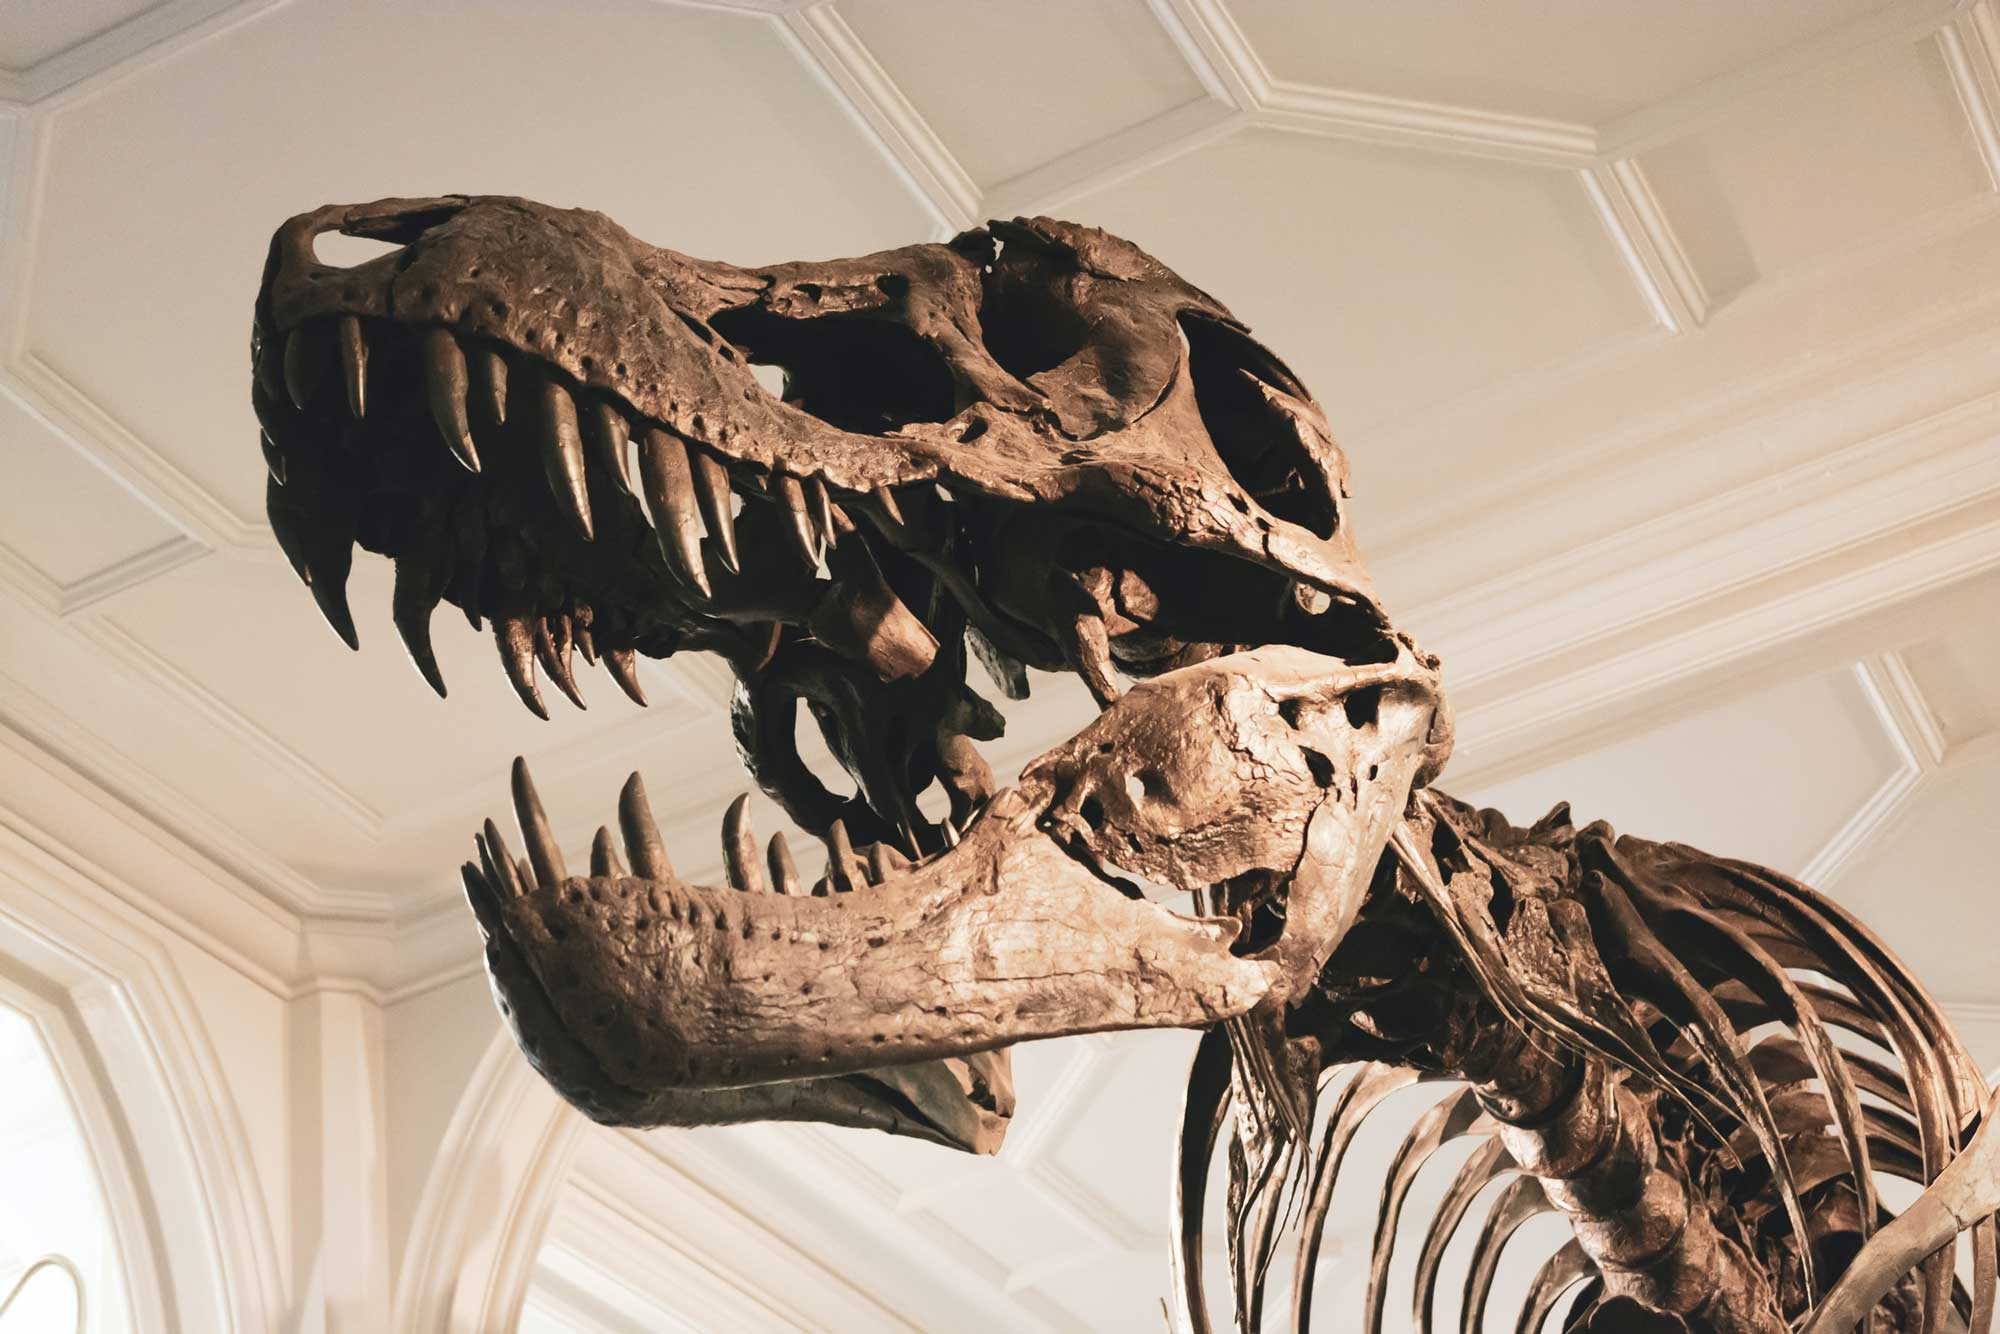
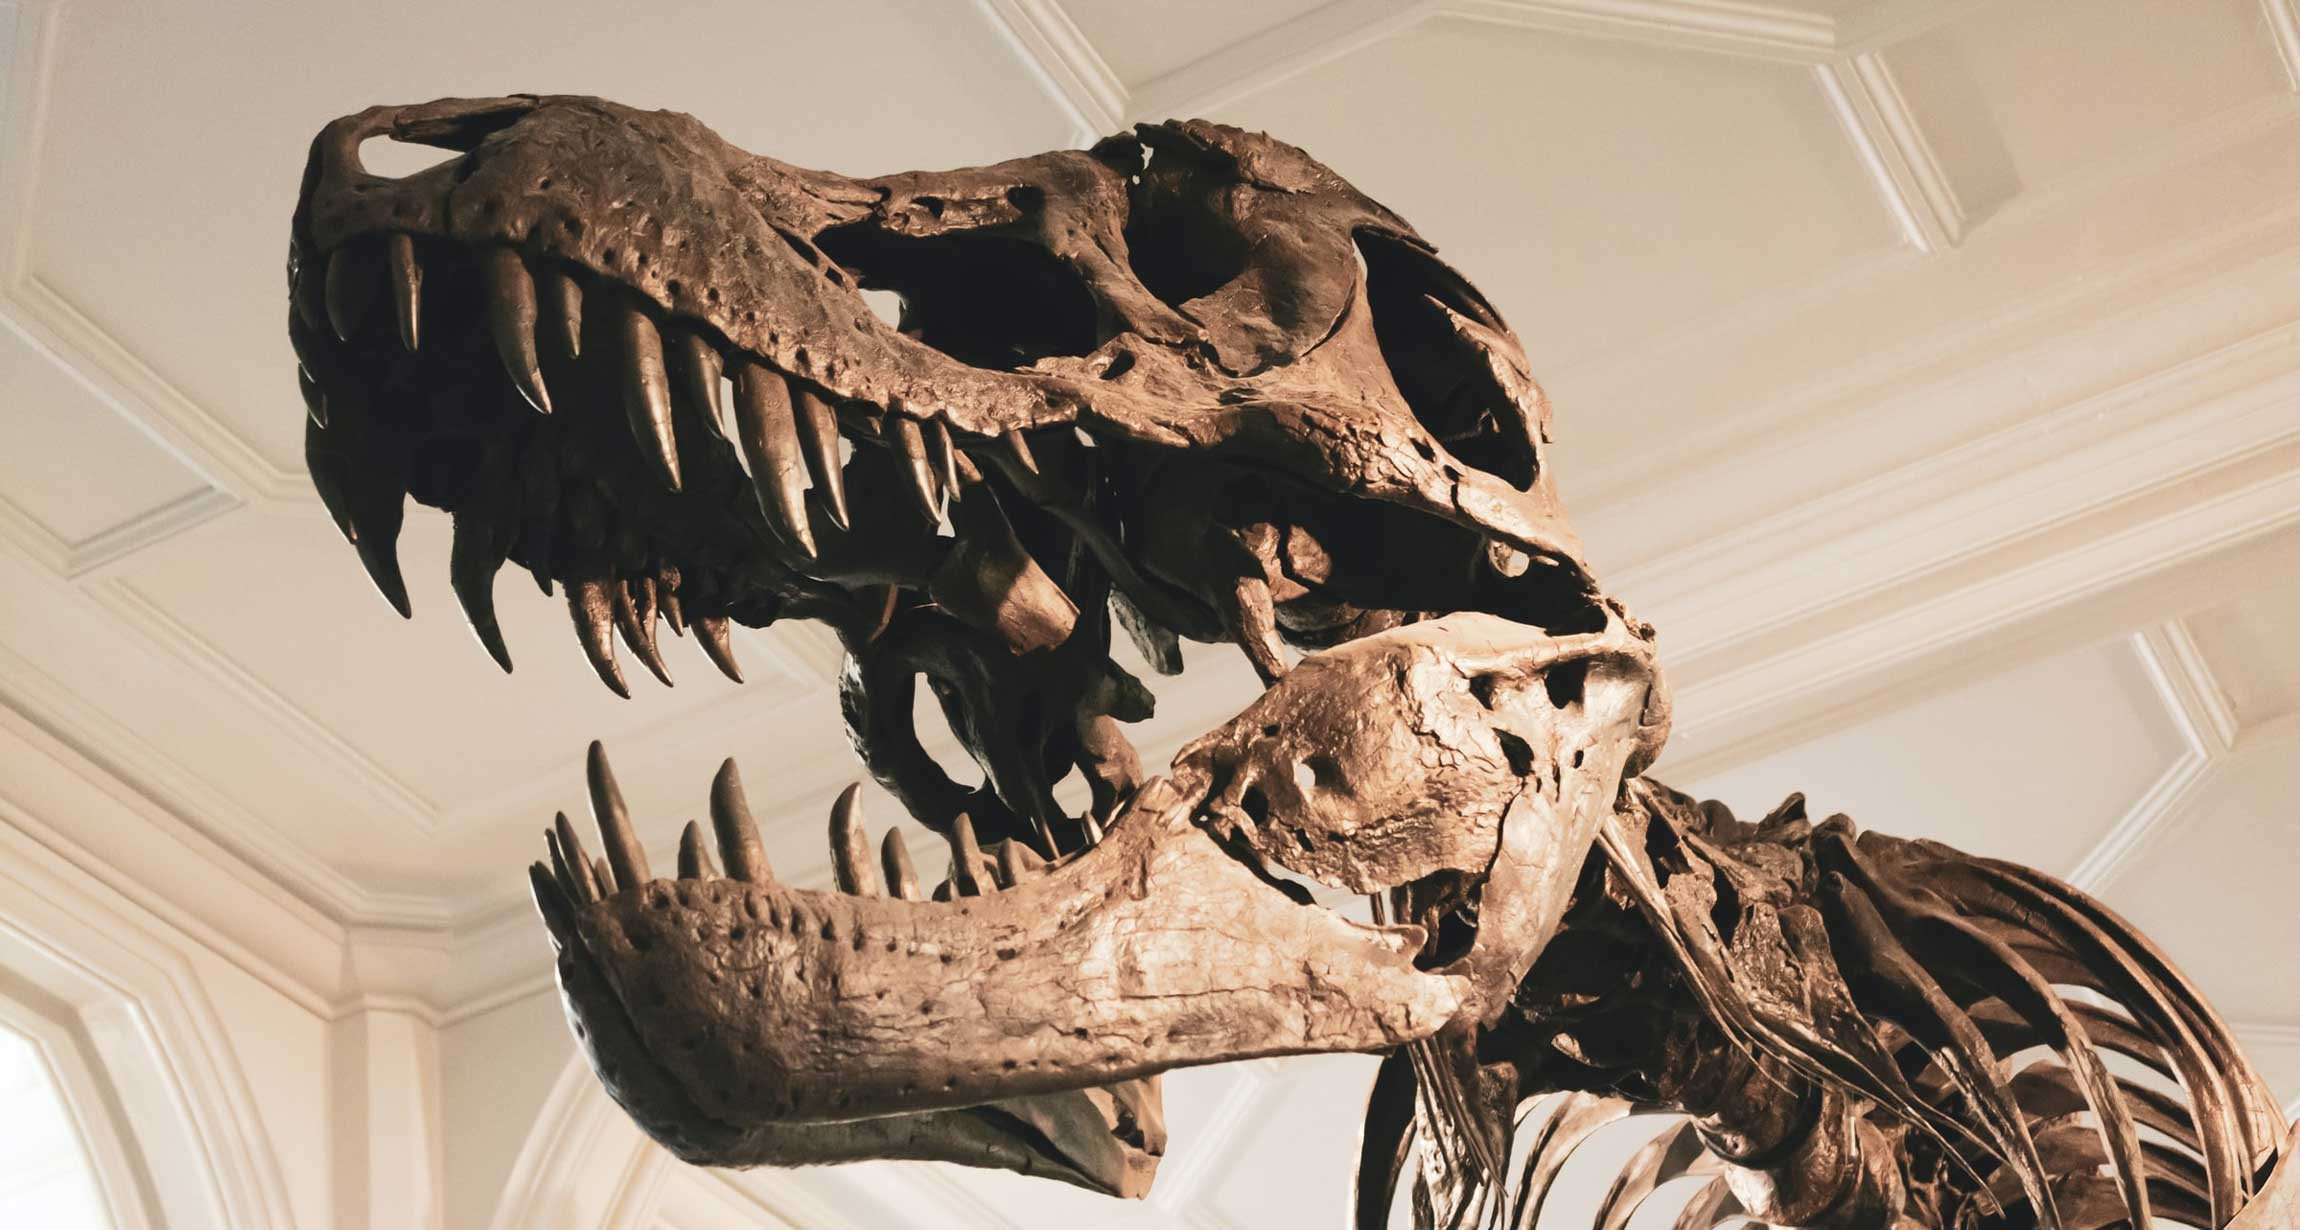
finished explore and changed header-img

diff --git a/explore.html b/explore.html
@@ -38,42 +38,49 @@
       </form>
     </header>
     <main>
-      <img src="images/inside-museum.jpg" alt="Outside wall of the community science museum" class="header-img" />
+      <img src="images/t-rex.jpg" alt="Outside wall of the community science museum" class="header-img explore_header-img" />
       <div class="flex-container flex">
         <section class="main-section">
-          <h1 class="h1">Welcome to the Community Science museum</h1>
-
-          <section class="flex color-content-container blue-container color-white">
-            <div>
-              <div class="color-content-container_text">
-                <h2>Explore the Universe</h2>
-                <p>
-                  Explore the wonders of our cosmos. Our fantastic exhibition, <q>The Sky Above Us</q>, explores the night sky and what we can see and know about the universe around us. We’ll locate
-                  the various constellations and galaxies that can be seen and learn a bit about Follow the journey of our solar exploration: from early Arab traders, to Galileo’s telescope, to the
-                  latest exploration of the planets in our solar system.
-                </p>
-                <a href="exibithion.html" class="cta color-cta blue-cta">Exibithion Spaces</a>
-              </div>
+          <h1 class="h1">Explore</h1>
+          <section class="flex explore__info">
+            <div class="reverse-container__text">
+              <h2 class="h3">For kids</h2>
+              <p>
+                Are you a young person looking to learn more about science? Come on down to our museum, there’s plenty to see and do. You can learn about Newtonian physics from our bumper swing, or
+                why not travel back in time and meet our resident Woolly Mammoth? During the school holidays we run special holiday clubs where you can join other children your age to go on a journey
+                of discovery. Each holiday we pick a new theme to explore. To find out more about the holiday club and how you can join, send us a message.
+              </p>
+              <a href="contact.html" class="cta black-cta">Contact Us</a>
             </div>
             <div>
-              <img src="images/space.jpg" alt=" the Milky way galaxy" />
+              <img src="images/child-reading.jpg" alt="Young boy sitting and reading a book" />
             </div>
           </section>
-          <section class="museum-info">
-            <h2>Community Science museum</h2>
-            <div class="flex reverse-container">
-              <div class="reverse-container__text">
-                <q>Explore together</q>
-                <p class="p-gray">Come join us at the Community Science Museum where we’re committed to making science accessible to all.</p>
-                <p class="p-gray">
-                  We believe science should not be confined to the textbook, but brought to live through exhibits. This is why we have over 1000 different exhibits on the many varied subjects of
-                  science to explore. Many of these exhibits are designed for you to interact with and play around to see science come to life (apart from the dinosaur exhibits – they only come to
-                  life at night when everyone’s gone home).
-                </p>
-              </div>
-              <div>
-                <img src="images/gallery.jpg" alt=" gallery inside the museum" />
-              </div>
+          <section class="flex explore__info">
+            <div class="reverse-container__text">
+              <h2 class="h3">For teachers</h2>
+              <p>
+                As a community-driven museum, we want to work with schools to create places of learning and exploring. Our team are on hand to give your students guided tours of the museum, teach them
+                in our learning laboratory, and provide great video presentations that will excite and inspire them. Please get in touch with us here to find out more about our facilities and to
+                arrange a time to bring your students through for a visit.
+              </p>
+              <a href="contact.html" class="cta black-cta">Contact Us</a>
+            </div>
+            <div>
+              <img src="images/teacher.jpg" alt="A female teacher smiling" />
+            </div>
+          </section>
+          <section class="flex explore__info">
+            <div class="reverse-container__text">
+              <h2 class="h3">Researchers</h2>
+              <p>
+                Are you looking to get involved with our team of researchers and academics? Our museum offers various ways for you to use our resources and contribute towards them. We have online
+                records, laboratory space, and a working relationship with a number of universities around the country.
+              </p>
+              <a href="contact.html" class="cta black-cta">Contact Us</a>
+            </div>
+            <div>
+              <img src="images/intern.jpg" alt="A young researcher looking in a microscope" />
             </div>
           </section>
         </section>

diff --git a/css/media.css b/css/media.css
@@ -2,9 +2,22 @@
   .header-img {
     height: 55vh;
   }
+  /*explorer page */
+  .explore__info {
+    flex-direction: row;
+    max-width: 900px;
+    margin: 70px 70px;
+  }
+  .explore__info img {
+    width: 350px;
+    height: 350px;
+  }
 }
 
 @media (min-width: 900px) {
+  .header-img {
+    height: 65vh;
+  }
   h1 {
     font-size: 2.2em;
   }
@@ -32,8 +45,24 @@
     margin: auto;
     text-align: left;
   }
+  /* homepage*/
   .t-rex_img {
     min-height: 385px;
+  }
+  /*explore page*/
+
+  .explore__info {
+    gap: 100px;
+    margin: 50px auto;
+    padding-bottom: 20px;
+  }
+  .explore__info img {
+    border-radius: 50%;
+    width: 400px;
+    height: 400px;
+  }
+  .explore_header-img {
+    object-position: center -2em;
   }
 }
 @media (min-width: 1200px) {
@@ -70,5 +99,12 @@
   }
   .hours {
     display: block;
+  }
+  .main-section {
+    padding: 0;
+  }
+  /*explore page */
+  .explore__info {
+    margin: 50px 0px;
   }
 }

diff --git a/css/explore.css b/css/explore.css
@@ -1,0 +1,28 @@
+.main-section {
+  padding: 0 15px;
+}
+.explore__info {
+  flex-direction: column-reverse;
+  max-width: 400px;
+  gap: 20px;
+  margin: 50px auto;
+}
+.explore__info > * {
+  flex: 1;
+  margin: auto;
+}
+.explore__info img {
+  border-radius: 10px;
+  height: 350px;
+  width: 247px;
+}
+
+.explore__info p {
+  text-align: left;
+  margin: 30px 0px;
+}
+
+.reverse-container__text {
+  margin: auto;
+  text-align: center;
+}

diff --git a/index.html b/index.html
@@ -38,7 +38,7 @@
       </form>
     </header>
     <main>
-      <img src="images/musem.jpg" alt="Outside wall of the community science museum" class="header-img" />
+      <img src="images/gallery.jpg" alt="Outside wall of the community science museum" class="header-img" />
       <div class="flex-container flex">
         <section class="main-section">
           <h1 class="h1">Welcome to the Community Science museum</h1>
